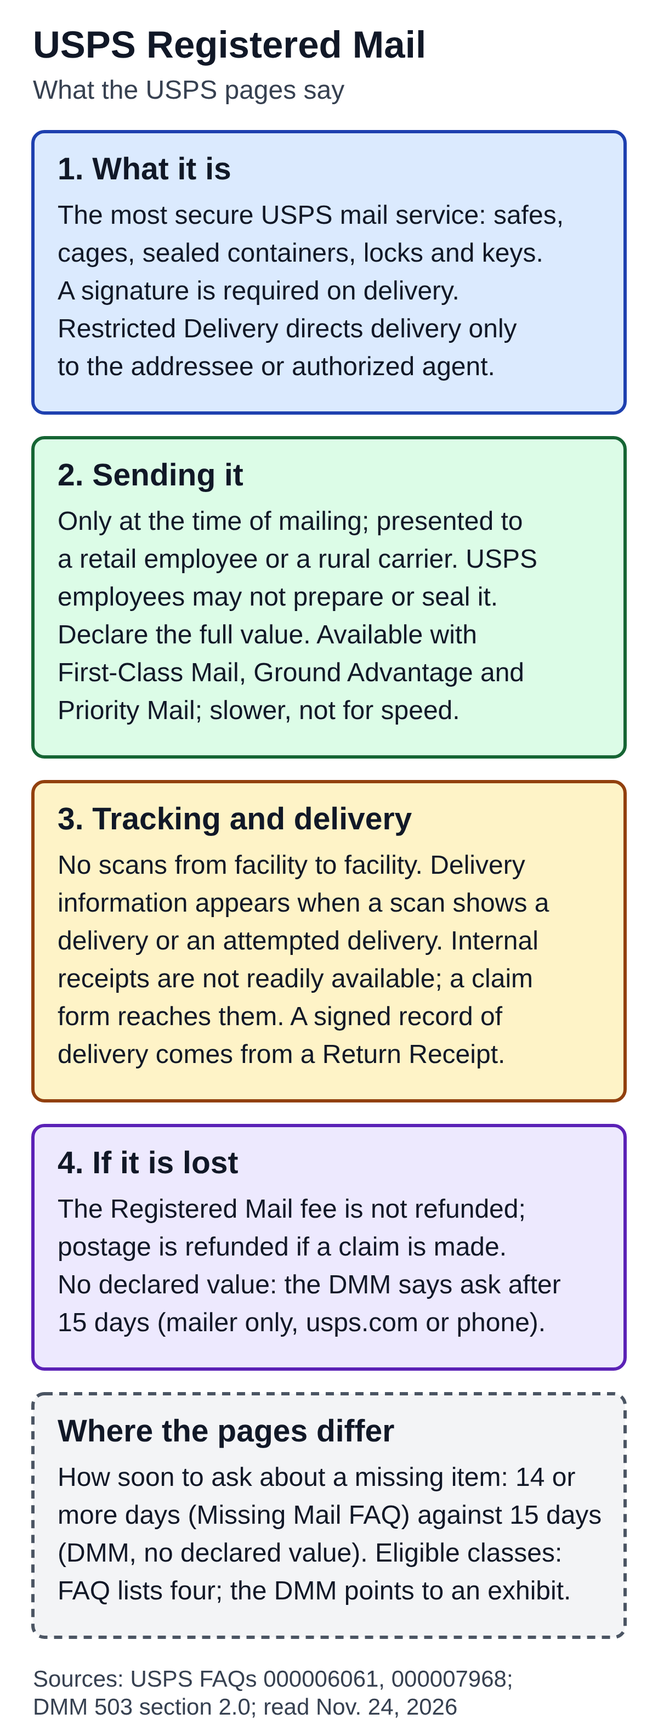
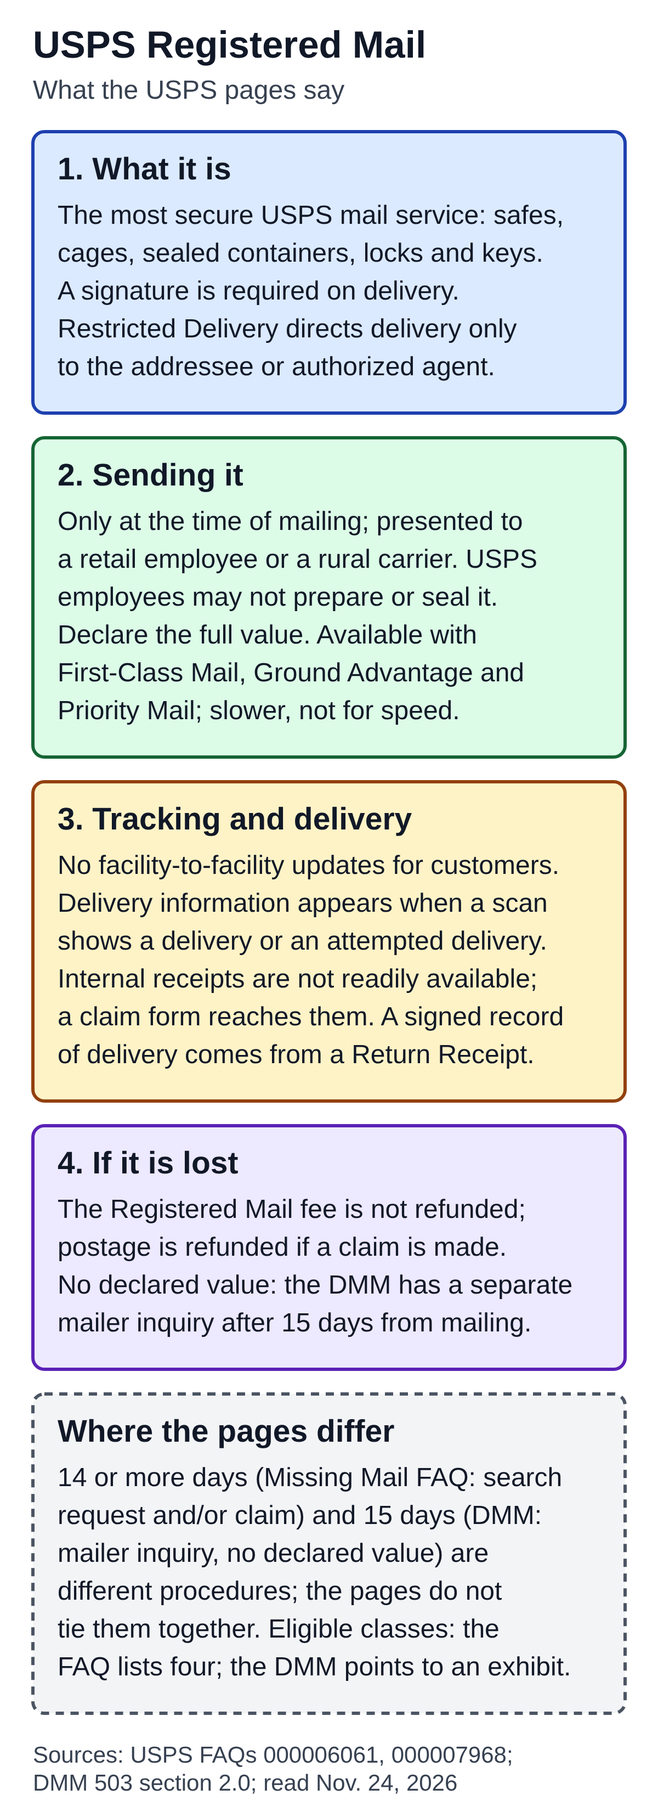
Fix Registered Mail after Gate 2 round 1: customer-update scope and 14 vs 15 days
Diagram, alt and body bullet now limit the no-update statement to what the FAQ
says and mark the Missing Mail FAQ 14 days and the DMM 15 days as different
procedures. QA, backlog rows 45 and 46 and decision log updated.

Claude-Session: https://claude.ai/code/session_01BXtGEA3Qzg6u2ejRb8jbFU

diff --git a/docs/content-backlog.md b/docs/content-backlog.md
@@ -78,8 +78,8 @@ Pilot 12 plan: 12 published + 0 ready + 0 draft + 0 briefs = 12 slots, 4 per lan
 | 42 | `usps-smart-locker-vs-parcel-locker` | USPS Smart Locker vs. Parcel Locker: Three Kinds of USPS Lockers | `usps parcel locker` | **published 2026-11-24** (post 165, media 164; live URL https://statesideexplained.com/usps-smart-locker-vs-parcel-locker/ ; moved to ready 2026-11-24; the nine sources re-read right before publishing with no important change; live QA passed, see `editorial/qa/`; history: Gate 1 done by Claude: 44 claims, 135 phrase checks with 1 miss that is a paraphrase, 3 image checks; Gate 2 round 1 on `6ddb13c` = FIX (Priority Mail Express count missing from the lead, table, diagram, alt and the differences paragraph), applied; Gate 2 round 2 on `7dd55bb` = FIX (lower diagram card mixed the start and the return point), applied; Gate 2 round 3 (changed part only) on `3bb374d` = PASS) | post-pilot (not counted) | Lane: postal service and stamps. Chosen on the user's approval of 2026-11-24 (`docs/next-candidates-2026-11-24.md`), reframed to the searched phrase "usps parcel locker" with three kinds of locker kept apart (Smart Locker, gopost, cluster box parcel locker). Sources: FAQ 000008414 (Jul 28, 2026), FAQ 000006975 (Aug 4, 2026), FAQ 000007973 (Oct 22, 2026), three USPS.com Smart Lockers pages (no update dates), FAQ 000005320, 000006180, 000006169. Demand: Trends relative only ("usps parcel locker" about 0.74 x the tracking status anchor over 90 days; "usps smart locker" about 0.03 x), not read as Smart Locker interest alone; search volume not checked. Differences shown in the article: Priority Mail Express return timing, "anytime, anywhere" against lobby hours, two maximum sizes, notice label history. Overlap with redelivery, PO Box, tracking status and Informed Delivery handled by one sentence and one link each (links to judge at Gate 2). Priority Mail Express post deferred to the next candidate list. Re-read all nine sources right before publishing. |
 | 43 | `usps-priority-mail-express-how-it-works` | USPS Priority Mail Express: What the 1-3 Day Guarantee Covers | `usps priority mail express` | **ready; scheduled 2026-11-25 09:00 KST** (WordPress post 173, media 171; Gate 1 done by Claude: 16 claim groups, 114 phrase checks with 1 miss that was my typo, 3 image checks; Gate 2 round 1 on `f839045` = FIX (signature waiver card mixed leaving the item with the 5-day return; the guarantee needed its conditions near it), applied; Gate 2 round 2 on `ee58248` = FIX (diagram, alt and lead said the receipt shows guarantee availability; the FAQ says the Service Commitments tool shows whether the guarantee can be offered and the receipt carries the delivery commitment), applied; Gate 2 round 3 on `45dc057` = PASS; moved to ready 2026-11-24; four sources re-read right before scheduling with no important change; built from the repository files; editor 0 invalid blocks; 375 and 320 px checked; scheduled at 00:00 UTC on 2026-11-25; live QA after it appears) | post-pilot (not counted) | Lane: postal service and stamps. Held candidate 2 of the ninth survey; one of two posts for the 2026-11-25 slots (9 AM and 3 PM KST) the user relayed. Sources: FAQ 000008250 (May 22, 2026), USPS.com PME page (no date), FAQ 000006914 (Oct 11, 2023), FAQ 000008085 (May 19, 2026). Demand: Trends relative only (about 0.86 x the tracking status anchor over 90 days); search volume not checked. No prices, fees or insurance amounts. Refund rules given briefly with a link to post 147; differences shown: refund window, Hold for Pickup days, 7-day delivery against markets, age of the signature FAQ. Five internal links (refund, holiday deadlines, tracking status, redelivery, claim). Older quick WordPress draft 153 is not used. Re-read all four sources right before publishing. |
 | 44 | `usps-return-receipt-how-it-works` | USPS Return Receipt: Green Card vs. Electronic Proof of Delivery | `usps return receipt` | **ready; scheduled 2026-11-25 15:00 KST** (WordPress post 174, media 172; Gate 1 done by Claude: 15 claim groups, 87 phrase checks with 1 miss caused by the page's own spacing, 3 image checks; Gate 2 round 1 on `f839045` = FIX (electronic timing condition, refund exceptions in the diagram, 48 hours against 3 to 5 days not a conflict, PME "Form 3811 only" tied to the green card), applied; Gate 2 round 2 on `ee58248` = PASS for the changed parts (the reviewer could not screen-check the PNG); moved to ready 2026-11-24; three sources re-read right before scheduling with no important change; built from the repository files; editor 0 invalid blocks; 375 and 320 px checked; scheduled at 06:00 UTC on 2026-11-25; live QA after it appears) | post-pilot (not counted) | Lane: postal service and stamps. From the ninth survey's measured list; second post for the 2026-11-25 slots. Sources: FAQ 000006076 (Sep 18, 2026), FAQ 000007257 (May 18, 2026), DMM 503 section 6.0 (no date). Demand: Trends relative only (about 0.23 x the anchor over 90 days, 0.33 x over 28 days); search volume not checked. No fees. Differences shown: electronic email timing, how the email address is given, two refund-timing sentences, whether PME can have the electronic version. Three internal links (Certified Mail, redelivery, refund). Older quick WordPress draft 168 is not used. Re-read all three sources right before publishing. |
-| 45 | `usps-general-delivery-how-it-works` | USPS General Delivery: How to Receive Mail Without a Permanent Address | `usps general delivery` | **draft 2026-11-24** (handed-over first draft from commit `6e09600`, rewritten here; Gate 1 done by Claude: FAQ 30 of 30, DMM 14 of 14 phrase checks, 3 image checks; waiting for push and Gate 2; not moved to ready; nothing built in WordPress) | post-pilot (not counted) | Lane: postal service and stamps. One of two posts for the 2026-11-26 slots (General Delivery 9 AM KST, Registered Mail 3 PM KST). Sources: FAQ 000006989 (Aug 4, 2026), DMM 508 sections 6.0 and 11.1 (no date). Demand: handed-over Trends note (0.09 of its anchor over 90 days, 0.2 over 28 days), not re-measured, search volume not checked. No prices (free where authorized). Differences shown: longer hold and 10 or 15 day note (FAQ only), restrict against refuse or restrict, four purposes against two. Two internal links (PO Box, Hold Mail). Re-read both sources right before publishing. |
-| 46 | `usps-registered-mail-how-it-works` | USPS Registered Mail: Security, Tracking and Delivery Explained | `usps registered mail` | **draft 2026-11-24** (handed-over first draft from commit `6e09600`, rewritten here; Gate 1 done by Claude: FAQ 35 of 37, DMM 43 of 44 and Missing Mail FAQ 5 of 5 phrase checks, the 3 misses being spacing artifacts and my own typo, 3 image checks; waiting for push and Gate 2; not moved to ready; nothing built in WordPress) | post-pilot (not counted) | Lane: postal service and stamps. Second of two posts for the 2026-11-26 slots (3 PM KST). Sources: FAQ 000006061 (May 14, 2025), DMM 503 section 2.0 (no date), FAQ 000007968 (May 19, 2026, one row). Demand: handed-over Trends note (0.2 of its anchor over 90 days, 0.35 over 28 days), not re-measured, search volume not checked. No prices, fees or insurance amounts. Differences shown: the word receipt, eligible classes, 14 or more days against 15 days. Five internal links (Certified Mail, claims, tracking status, Return Receipt, Missing Mail); the Return Receipt post must be public first. Re-read all three sources right before publishing. |
+| 45 | `usps-general-delivery-how-it-works` | USPS General Delivery: How to Receive Mail Without a Permanent Address | `usps general delivery` | **draft 2026-11-24** (handed-over first draft from commit `6e09600`, rewritten here; Gate 1 done by Claude: FAQ 30 of 30, DMM 14 of 14 phrase checks, 3 image checks; pushed in `d955818`; Gate 2 round 1 = PASS on `d955818` (user-reported 2026-11-25); not yet moved to ready; nothing built in WordPress) | post-pilot (not counted) | Lane: postal service and stamps. One of two posts for the 2026-11-26 slots (General Delivery 9 AM KST, Registered Mail 3 PM KST). Sources: FAQ 000006989 (Aug 4, 2026), DMM 508 sections 6.0 and 11.1 (no date). Demand: handed-over Trends note (0.09 of its anchor over 90 days, 0.2 over 28 days), not re-measured, search volume not checked. No prices (free where authorized). Differences shown: longer hold and 10 or 15 day note (FAQ only), restrict against refuse or restrict, four purposes against two. Two internal links (PO Box, Hold Mail). Re-read both sources right before publishing. |
+| 46 | `usps-registered-mail-how-it-works` | USPS Registered Mail: Security, Tracking and Delivery Explained | `usps registered mail` | **draft 2026-11-24** (handed-over first draft from commit `6e09600`, rewritten here; Gate 1 done by Claude: FAQ 35 of 37, DMM 43 of 44 and Missing Mail FAQ 5 of 5 phrase checks, the 3 misses being spacing artifacts and my own typo, 3 image checks; pushed in `d955818`; Gate 2 round 1 on `d955818` = FIX (diagram and alt said no scans from facility to facility; 14 days and 15 days must be shown as different procedures), applied 2026-11-25; waiting for Gate 2 round 2 (changed part only); not moved to ready; nothing built in WordPress) | post-pilot (not counted) | Lane: postal service and stamps. Second of two posts for the 2026-11-26 slots (3 PM KST). Sources: FAQ 000006061 (May 14, 2025), DMM 503 section 2.0 (no date), FAQ 000007968 (May 19, 2026, one row). Demand: handed-over Trends note (0.2 of its anchor over 90 days, 0.35 over 28 days), not re-measured, search volume not checked. No prices, fees or insurance amounts. Differences shown: the word receipt, eligible classes, 14 or more days against 15 days. Five internal links (Certified Mail, claims, tracking status, Return Receipt, Missing Mail); the Return Receipt post must be public first. Re-read all three sources right before publishing. |
 
 ## Rejected
 

diff --git a/content/drafts/usps-registered-mail-how-it-works.md b/content/drafts/usps-registered-mail-how-it-works.md
@@ -8,7 +8,7 @@ status: draft
 date: 2026-11-24
 internal_link_candidates: usps-certified-mail-how-it-works (published; one sentence, no comparison); usps-claim-how-it-works (published; claims); usps-tracking-status-what-it-means (published; status messages); usps-return-receipt-how-it-works (scheduled for 2026-11-25 15:00 KST; confirm it is public before publishing, otherwise remove the link); usps-missing-mail-search-how-it-works (published; search route). Each appears once in the body; link texts match the live titles.
 image: assets/optimized/usps-registered-mail-how-it-works.png
-image_alt: "Diagram of what USPS pages say about Registered Mail, with no prices, fees or insurance amounts. What it is: the most secure USPS mail service, protected by safes, cages, sealed containers, locks and keys; a signature is required on delivery; Registered Mail Restricted Delivery directs delivery only to the addressee or the addressee's authorized agent. Sending it: only at the time of mailing, presented to a retail employee or a rural carrier; USPS employees may not prepare or seal the mail; the full value must be declared; domestic Registered Mail is available with First-Class Mail, USPS Ground Advantage and Priority Mail, and it is slower. Tracking and delivery: no scans from facility to facility; delivery information appears when a scan shows a delivery or an attempted delivery; the internal receipts are not readily available and are reached only by starting a claim form; proof of delivery with a signature comes from a Return Receipt bought at mailing. If it is lost: the Registered Mail fee is not refunded, postage is refunded if a claim is made; for no declared value the DMM says ask after 15 days. The pages differ on how soon to ask about a missing item: 14 or more days in the Missing Mail FAQ, 15 days in the DMM."
+image_alt: "Diagram of what USPS pages say about Registered Mail, with no prices, fees or insurance amounts. What it is: the most secure USPS mail service, protected by safes, cages, sealed containers, locks and keys; a signature is required on delivery; Registered Mail Restricted Delivery directs delivery only to the addressee or the addressee's authorized agent. Sending it: only at the time of mailing, presented to a retail employee or a rural carrier; USPS employees may not prepare or seal the mail; the full value must be declared; domestic Registered Mail is available with First-Class Mail, USPS Ground Advantage and Priority Mail, and it is slower. Tracking and delivery: USPS gives customers no facility-to-facility updates for Registered Mail alone; delivery information appears when a scan shows a delivery or an attempted delivery; the internal receipts are not readily available and are reached only by starting a claim form; proof of delivery with a signature comes from a Return Receipt bought at mailing. If it is lost: the Registered Mail fee is not refunded, postage is refunded if a claim is made; for Registered Mail with no declared value, the DMM has a separate mailer inquiry after 15 days from mailing. The 14 and 15 days are different procedures: the Missing Mail FAQ says to allow 14 or more days before a search request and/or a claim, and the pages do not tie the two numbers together or to the claim filing period."
 ---
 
 # USPS Registered Mail: Security, Tracking and Delivery Explained
@@ -17,7 +17,7 @@ image_alt: "Diagram of what USPS pages say about Registered Mail, with no prices
 
 This article covers domestic Registered Mail. It uses the USPS FAQ "Registered Mail - The Basics" (Article 000006061, dated May 14, 2025) and section 2.0 of Domestic Mail Manual (DMM) 503, "Additional Mailing Services" (no update date shown), and one table row in the FAQ "Missing Mail - The Basics" (Article 000007968, dated May 19, 2026), all read on November 24, 2026. The first two pages give dollar limits for insurance and for cash shipments; this article gives no prices, fees or insurance amounts. It does not compare Registered Mail with Certified Mail, which has its own article: [What Is USPS Certified Mail? What It Includes and How It Works](https://statesideexplained.com/usps-certified-mail-how-it-works/).
 
-![Diagram of what USPS pages say about Registered Mail, with no prices, fees or insurance amounts. What it is: the most secure USPS mail service, protected by safes, cages, sealed containers, locks and keys; a signature is required on delivery; Registered Mail Restricted Delivery directs delivery only to the addressee or the addressee's authorized agent. Sending it: only at the time of mailing, presented to a retail employee or a rural carrier; USPS employees may not prepare or seal the mail; the full value must be declared; domestic Registered Mail is available with First-Class Mail, USPS Ground Advantage and Priority Mail, and it is slower. Tracking and delivery: no scans from facility to facility; delivery information appears when a scan shows a delivery or an attempted delivery; the internal receipts are not readily available and are reached only by starting a claim form; proof of delivery with a signature comes from a Return Receipt bought at mailing. If it is lost: the Registered Mail fee is not refunded, postage is refunded if a claim is made; for no declared value the DMM says ask after 15 days. The pages differ on how soon to ask about a missing item: 14 or more days in the Missing Mail FAQ, 15 days in the DMM.](assets/optimized/usps-registered-mail-how-it-works.png)
+![Diagram of what USPS pages say about Registered Mail, with no prices, fees or insurance amounts. What it is: the most secure USPS mail service, protected by safes, cages, sealed containers, locks and keys; a signature is required on delivery; Registered Mail Restricted Delivery directs delivery only to the addressee or the addressee's authorized agent. Sending it: only at the time of mailing, presented to a retail employee or a rural carrier; USPS employees may not prepare or seal the mail; the full value must be declared; domestic Registered Mail is available with First-Class Mail, USPS Ground Advantage and Priority Mail, and it is slower. Tracking and delivery: USPS gives customers no facility-to-facility updates for Registered Mail alone; delivery information appears when a scan shows a delivery or an attempted delivery; the internal receipts are not readily available and are reached only by starting a claim form; proof of delivery with a signature comes from a Return Receipt bought at mailing. If it is lost: the Registered Mail fee is not refunded, postage is refunded if a claim is made; for Registered Mail with no declared value, the DMM has a separate mailer inquiry after 15 days from mailing. The 14 and 15 days are different procedures: the Missing Mail FAQ says to allow 14 or more days before a search request and/or a claim, and the pages do not tie the two numbers together or to the claim filing period.](assets/optimized/usps-registered-mail-how-it-works.png)
 
 ## What Registered Mail is
 
@@ -63,7 +63,7 @@ The FAQ says the Registered Mail fee is not eligible for a refund after USPS acc
 
 - **The word "receipt."** The DMM uses it for the sender's mailing receipt and for the system of receipts that monitors the mail, and the FAQ names PS Form 3806 as the Receipt for Registered Mail while saying the monitoring receipts are not readily available. They are different things.
 - **Eligible classes.** The FAQ lists four mail classes in its text. The DMM section says registration may not be obtained for mail that is "not listed as eligible mail under 1.4," an exhibit this article did not read.
-- **How soon to ask about a missing item.** The Missing Mail FAQ says, for domestic Registered Mail, to allow 14 or more days from the date of mailing and then submit a search request on the Missing Mail application and/or file a claim. The DMM's inquiry for Registered Mail with no declared value says to ask after 15 days. The pages are about different procedures, and they do not say how the two numbers relate.
+- **How soon to ask about a missing item.** The Missing Mail FAQ says, for domestic Registered Mail, to allow 14 or more days from the date of mailing and then submit a search request on the Missing Mail application and/or file a claim. The DMM's 15 days is a different procedure: the mailer's own inquiry for Registered Mail with no declared value, to be made after 15 days from the mailing date. Neither page says how the two numbers relate to each other or to the claim filing period, which our claims article covers, so this article does not say they are the same.
 
 ## What the pages do not say
 

diff --git a/editorial/qa/usps-registered-mail-how-it-works.md b/editorial/qa/usps-registered-mail-how-it-works.md
@@ -1,8 +1,8 @@
 # QA — USPS Registered Mail
 
-Article: `content/drafts/usps-registered-mail-how-it-works.md` (draft, 2026-11-24, about 1750 words in the body, one H1, Sources included; meta description 141 characters; alt text 1237 characters).
+Article: `content/drafts/usps-registered-mail-how-it-works.md` (draft, 2026-11-24, about 1750 words in the body, one H1, Sources included; meta description 141 characters; alt text 1,435 characters after Gate 2 round 1).
 
-Stage: draft. Gate 1 (Claude) run on 2026-11-24 on the rewritten article. Gate 2 not yet run. Backlog row 46.
+Stage: draft. Gate 1 (Claude) run on 2026-11-24 on the rewritten article. **Gate 2 round 1 (ChatGPT, base `d955818`, user-reported 2026-11-25): FIX, two items, applied 2026-11-25** (section "Gate 2 FIX round 1"); Gate 2 round 2 (changed part only) not yet run. Backlog row 46.
 
 ## Handed-over draft
 The first draft came in a bundle (commit `6e09600`, another environment). Its brief and QA said factual QA was incomplete. The article here was rewritten after Claude read the live pages; every claim below was tested against them.
@@ -21,7 +21,12 @@ The first draft came in a bundle (commit `6e09600`, another environment). Its br
 - How soon to ask about a missing item: 14 or more days (Missing Mail FAQ) against 15 days (DMM, no declared value); different procedures, relation not stated.
 
 ## Image checks
-PNG 1200 x 3165 px, 601,820 bytes, SHA-256 prefix `19deb80b13b60f6f`; SVG 6,045 bytes, `ac99f8c26c64fc38`; md 14,001 bytes, `1d10c1707fbfc58e`; C2PA chunk and metadata stripped on the device (hashes equal the originals). The rendering script printed no text past the right margin; the PNG was viewed. Diagram text only repeats facts from the article; alt text matches the front matter and the Markdown alt text. No dollar sign or percent sign in the article.
+After round 1: PNG 1200 x 3303 px, 632,259 bytes, SHA-256 prefix `4ea85c7c66d71268`; SVG 6,481 bytes, `566fb9637d0d2dd0`; md 14,551 bytes, `ba1e436d199c255b` (first version: PNG 3165 px, `19deb80b13b60f6f`; SVG `ac99f8c26c64fc38`; md `1d10c1707fbfc58e`; alt 1,237); C2PA chunk and metadata stripped on the device (hashes equal the originals). The rendering script printed no text past the right margin; the PNG was viewed. Diagram text only repeats facts from the article; alt text matches the front matter and the Markdown alt text. No dollar sign or percent sign in the article.
 
 ## Not checked
 Search volume; any page not listed in the source notes; WordPress (no draft or schedule exists); mobile and editor checks (after Gate 2 PASS).
+
+## Gate 2 FIX round 1 (2026-11-25, base `d955818`): applied
+Findings: (1) the diagram card and alt text said "no scans from facility to facility", which can read as USPS itself having no scans; the FAQ says only that updated scans are not provided to the customer as the piece is processed from facility to facility (the body already limits this to "Registered Mail alone"). (2) The diagram's bottom card set 14 or more days against 15 days without saying they are different procedures: the Missing Mail FAQ's 14 or more days is for a search request and/or a claim; the DMM's 15 days is the mailer's own inquiry for Registered Mail with no declared value; the article must not say the claim filing period equals the search time.
+
+Applied: (1) diagram card 3 now reads "No facility-to-facility updates for customers" and the alt text says "USPS gives customers no facility-to-facility updates for Registered Mail alone". (2) diagram card 4 says the DMM has "a separate mailer inquiry after 15 days from mailing"; the dashed card says 14 or more days (Missing Mail FAQ: search request and/or claim) and 15 days (DMM: mailer inquiry, no declared value) are different procedures and the pages do not tie them together; the alt text says the same; the body bullet in "Where the USPS pages differ" now names each procedure and says neither page relates the two numbers to each other or to the claim filing period (covered in our claims article), so the article does not say they are the same. The rest of the article is unchanged. The FAQ and DMM wording was re-checked against the earlier read (FAQ: "Updated scans are not provided as the piece is processed from facility to facility"; Missing Mail FAQ: "allow fourteen (14) or more days ... submit a search request ... and/or file a claim"; DMM 2.5.1: after 15 days from the mailing date, mailer only, no declared value). Image checks: the rendering script printed no text past the right margin; the PNG was viewed; no dollar sign or percent sign. Nothing is published; Gate 2 round 2 (changed part only) is needed.

diff --git a/docs/decision-log.md b/docs/decision-log.md
@@ -1606,3 +1606,7 @@ Gate 2 round 2 on `ee58248` was PASS for Return Receipt; Priority Mail Express r
 ## 2026-11-24 (KST) — General Delivery and Registered Mail drafts taken over and rewritten (Gate 1 done, Gate 2 pending)
 
 The user handed over two drafts with brief, source notes and QA from another environment (bundle, commit `6e09600`, parent `4d0e82b`) and chose to continue from them; slots chosen by the user: 2026-11-26, General Delivery 9 AM KST and Registered Mail 3 PM KST. The bundle was fetched into this repository and fast-forwarded. The handed-over notes said Gate 1 was incomplete (the General Delivery FAQ could not be opened). Claude read every source directly (General Delivery FAQ 000006989 and DMM 508.6 and 11.1; Registered Mail FAQ 000006061, DMM 503.2 and the Missing Mail FAQ 000007968 row), rewrote both articles in the house structure with a diagram and a "Where the USPS pages differ" section, and tested them by script (General Delivery 44 phrase checks with 0 misses; Registered Mail 86 with 3 misses that were spacing artifacts or my own typo). Corrections to the handed-over text: the Registered Mail FAQ date was missing and the FAQ's statement that internal receipts are not readily available was missing; the 30-day hold is stated by both General Delivery pages but the longer-hold sentence and the 10 and 15 day note are FAQ only; link texts now match live titles. No prices, fees or insurance amounts. The Return Receipt link in the Registered Mail post depends on post 174 being public (scheduled 2026-11-25 15:00 KST). Nothing is built in WordPress and nothing is scheduled; Gate 2 comes first. The three optional refund links and the four link proposals stay unapplied.
+
+## 2026-11-25 (KST) — Gate 2 round 1 on the General Delivery and Registered Mail drafts
+
+Round 1 on `d955818` (pushed to `main`): General Delivery = PASS; the article and diagram keep the facility, identification and hold period apart by source and give the FAQ's longer-hold note and the DMM's 30-day wording to their own pages. Registered Mail = FIX, two items, both about the diagram and alt text: "no scans from facility to facility" is limited to what the FAQ says about customer updates for Registered Mail alone, and the Missing Mail FAQ's 14 or more days (search request and/or claim) and the DMM's 15 days (mailer inquiry for no declared value) are marked as different procedures, with no statement that the claim filing period equals the search time. The body bullet was aligned. Only Registered Mail files changed; General Delivery files are unchanged. The Return Receipt link in the Registered Mail post stays subject to post 174 being public (scheduled 2026-11-25 15:00 KST). Nothing for 2026-11-26 is built in WordPress or scheduled yet. Next: Gate 2 round 2 (changed part only) for Registered Mail; for General Delivery, the pre-publication source re-read, then WordPress draft and 2026-11-26 09:00 KST schedule.

diff --git a/editorial/qa/usps-general-delivery-how-it-works.md b/editorial/qa/usps-general-delivery-how-it-works.md
@@ -2,7 +2,7 @@
 
 Article: `content/drafts/usps-general-delivery-how-it-works.md` (draft, 2026-11-24, about 1300 words in the body, one H1, Sources included; meta description 130 characters; alt text 993 characters).
 
-Stage: draft. Gate 1 (Claude) run on 2026-11-24 on the rewritten article. Gate 2 not yet run. Backlog row 45.
+Stage: draft. Gate 1 (Claude) run on 2026-11-24 on the rewritten article. **Gate 2 round 1 (ChatGPT, base `d955818`, user-reported 2026-11-25): PASS, no FIX**; the diagram was checked for cut-off text (none). Backlog row 45.
 
 ## Handed-over draft
 The first draft came in a bundle (commit `6e09600`, another environment). Its brief and QA said factual QA was incomplete. The article here was rewritten after Claude read the live pages; every claim below was tested against them.
